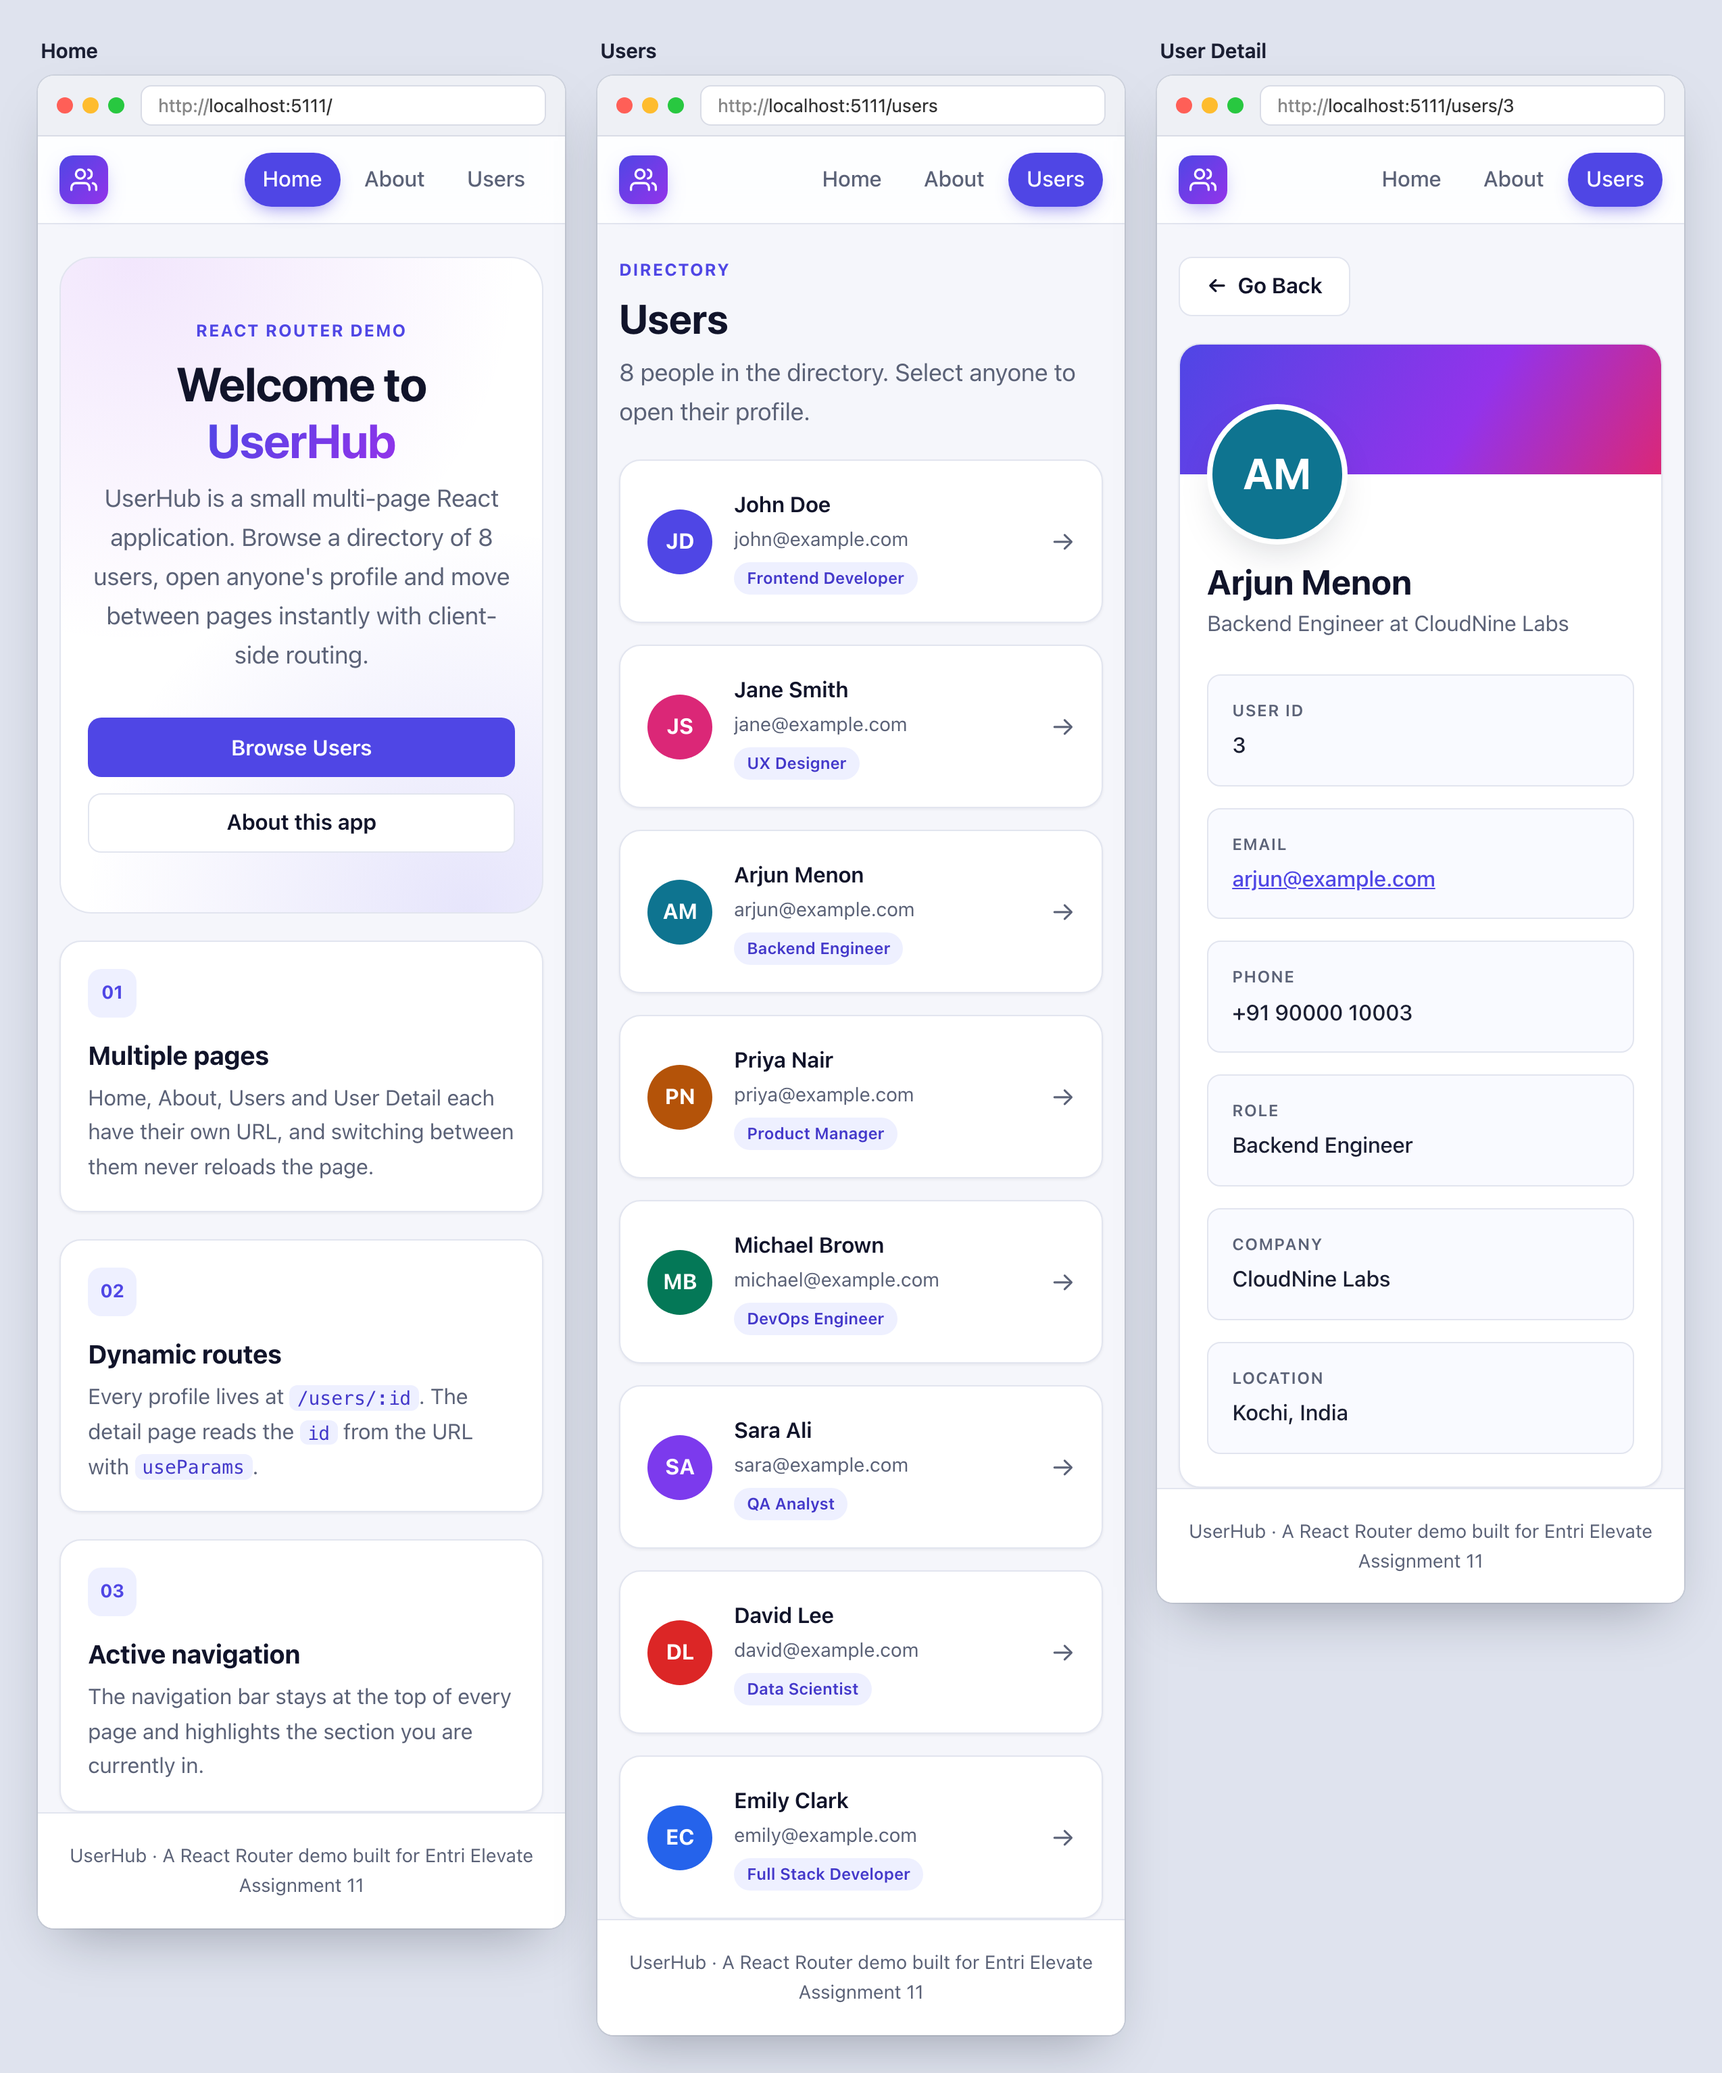
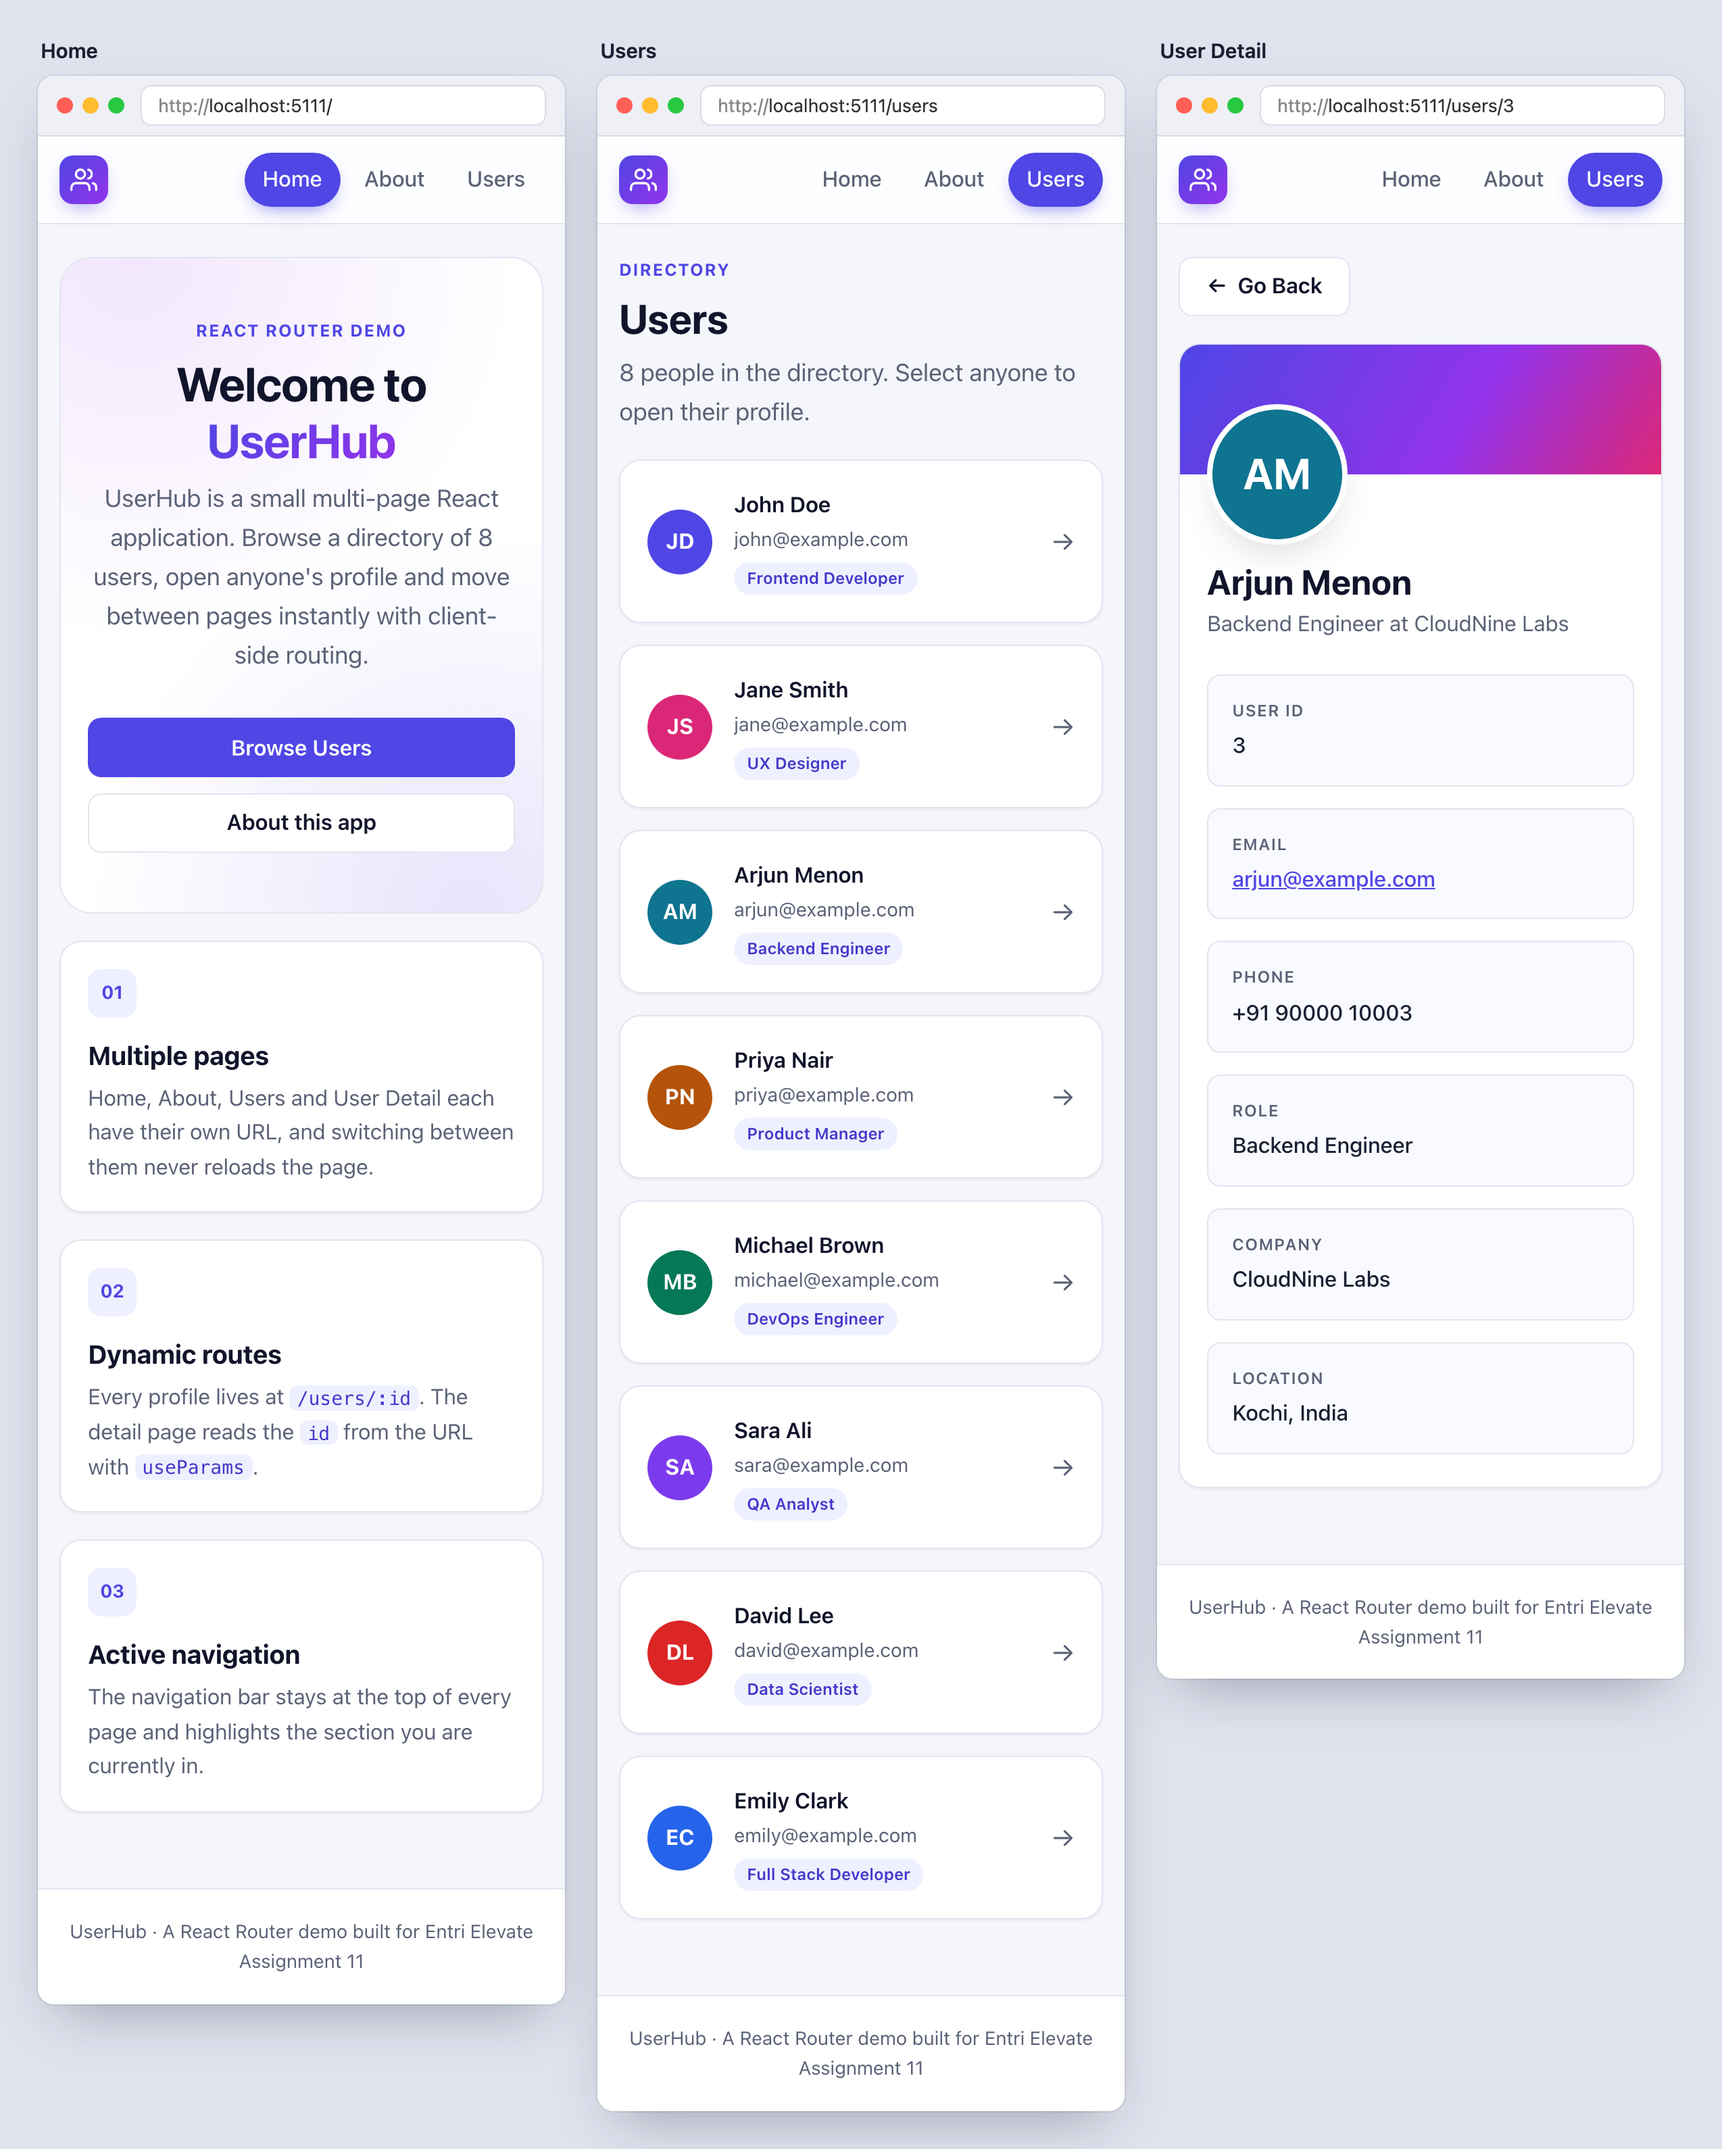
Fix mobile spacing, small-screen overflow and focus visibility
- Keep main's bottom padding on phones (content no longer touches the footer)
- Wrap long unknown URLs on the 404 page instead of overflowing
- Let the user and profile grids shrink to fit 320px screens
- Opaque focus ring and scroll-padding so focused items clear the sticky navbar
- Retake the mobile screenshot

diff --git a/src/index.css b/src/index.css
@@ -36,6 +36,11 @@
   box-sizing: border-box;
 }
 
+/* Keep anything scrolled into view (e.g. by Tab) clear of the sticky navbar. */
+html {
+  scroll-padding-top: calc(var(--navbar-height) + 1rem);
+}
+
 body {
   margin: 0;
   min-width: 320px;
@@ -71,7 +76,7 @@ code {
 }
 
 :focus-visible {
-  outline: 3px solid rgb(79 70 229 / 0.45);
+  outline: 3px solid var(--color-primary);
   outline-offset: 2px;
 }
 
@@ -340,6 +345,11 @@ code {
   margin-top: 1.75rem;
 }
 
+/* Long unknown URLs wrap instead of pushing the card off-screen. */
+.empty-state code {
+  overflow-wrap: anywhere;
+}
+
 /* ==========================================================================
    Home
    ========================================================================== */
@@ -457,7 +467,7 @@ code {
    ========================================================================== */
 .user-grid {
   display: grid;
-  grid-template-columns: repeat(auto-fill, minmax(290px, 1fr));
+  grid-template-columns: repeat(auto-fill, minmax(min(100%, 290px), 1fr));
   gap: 1rem;
   margin: 0;
   padding: 0;
@@ -556,7 +566,7 @@ code {
 
 .profile-details {
   display: grid;
-  grid-template-columns: repeat(auto-fill, minmax(260px, 1fr));
+  grid-template-columns: repeat(auto-fill, minmax(min(100%, 260px), 1fr));
   gap: 1rem;
   margin: 0;
   padding: 2rem;
@@ -596,7 +606,7 @@ code {
 
 @media (max-width: 600px) {
   .container {
-    padding: 0 1rem;
+    padding-inline: 1rem;
   }
 
   .main {
